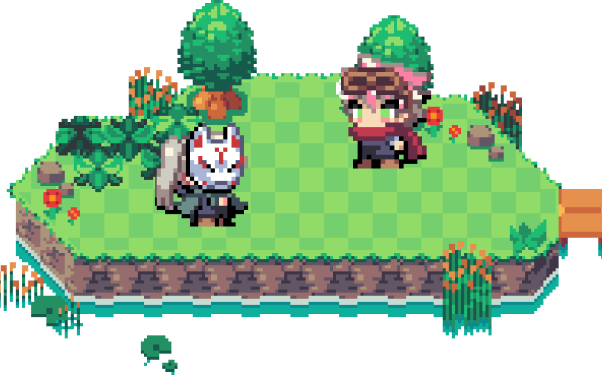
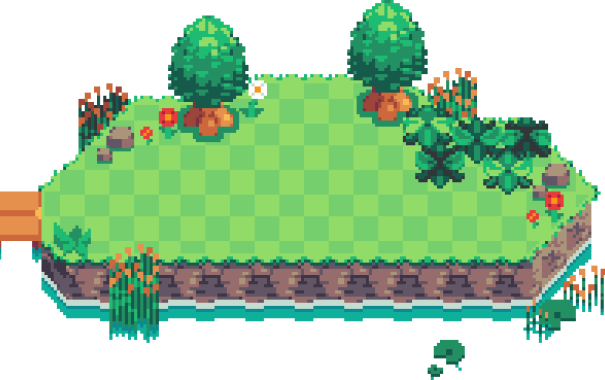
快完成的首頁,新增圖片,刪除無用圖片

diff --git a/src/sass/page/_home.scss b/src/sass/page/_home.scss
@@ -8,7 +8,8 @@
 /* 手機版水中裝飾none */
 .home_lesson_inwater img,
 .home_topic_inwater img,
-.home_mall_inwater img {
+.home_mall_inwater img,
+.home_decorate_island_inwater img {
   display: none;
 }
 
@@ -548,7 +549,9 @@
   top: 40%;
   left: 20%;
 }
-
+.home_mall_island_2 {
+  display: none;
+}
 .home_mall_island_npc1 img {
   width: 50px;
   height: 50px;
@@ -596,6 +599,14 @@
 .home_decorate_island {
   justify-content: flex-start;
 }
+.home_decorate_island_cloud img {
+  width: 30%;
+}
+.home_decorate_island_pic {
+  position: relative;
+  display: flex;
+  justify-content: flex-end;
+}
 .home_decorate_island_2_pic {
   justify-content: flex-end;
 }
@@ -610,7 +621,7 @@
 }
 .home_decorate_info_pic {
   position: absolute;
-  left: 2%;
+  left: 0;
   bottom: 20%;
 }
 .home_decorate_info_pic img {
@@ -618,6 +629,83 @@
   height: 70px;
 }
 
+.home_decorate_island_npc1 img,
+.home_decorate_island_npc2 img,
+.home_decorate_island_2_npc1 img,
+.home_decorate_island_2_npc2 img {
+  position: absolute;
+  width: 50px;
+  height: 50px;
+}
+.home_decorate_island_npc1 img {
+  top: 25%;
+  left: 50%;
+}
+.home_decorate_island_npc2 img {
+  top: 25%;
+  left: 70%;
+}
+
+.home_decorate_island_2 {
+  position: relative;
+  display: none;
+}
+.home_decorate_island_2_cloud {
+  position: absolute;
+}
+.home_decorate_island_2_npc1 img {
+  top: 30%;
+  left: 50%;
+}
+.home_decorate_island_2_npc2 img {
+  top: 30%;
+  left: 70%;
+}
+.last_island {
+  width: 100vw;
+}
+.last_island_pic {
+  width: 100%;
+}
+.last_island_pic img {
+  width: 100%;
+}
+.last_island {
+  position: relative;
+}
+.last_island_npc img {
+  position: absolute;
+  width: 50px;
+  height: 50px;
+  top: 50%;
+  left: 50%;
+  transform: translate(-50%, -50%);
+}
+.last_island_info {
+  position: absolute;
+  display: flex;
+  flex-direction: column;
+  position: absolute;
+  justify-content: center;
+  align-items: center;
+  width: 200px;
+  height: 50px;
+  padding: 20px;
+  background-color: #fae6b8;
+  border: 5px solid #f9bb4d;
+  top: 60%;
+  left: 20%;
+}
+.last_island_info_text {
+  padding: 15px;
+}
+.sign_up {
+  display: block;
+  padding: 10px 20px;
+  background-color: #f9bb4d;
+  border-radius: 30px;
+  color: #fff;
+}
 @include md() {
   .home_first_island_npc1 {
     top: 20%;
@@ -878,7 +966,9 @@
   }
 
   /*商城島*/
-
+  .home_mall_island_2 {
+    display: block;
+  }
   /*商城島雲*/
   .home_mall_cloud_2 img,
   .home_mall_cloud_3 img {
@@ -929,21 +1019,77 @@
     height: 100px;
   }
 
-  .home_decorate_island,
-  .home_decorate_island_2_pic {
-    margin: 150px 100px;
+  .home_decorate_island_pic {
+    justify-content: space-around;
+  }
+
+  .home_decorate_island_cloud img {
+    width: 20%;
+  }
+  .home_decorate_island_inwater img {
+    display: block;
+    width: 250px;
+    height: 250px;
+  }
+
+  .home_decorate_island_2 {
+    display: block;
+    margin: 0 10%;
+  }
+  .home_decorate_island_2_cloud1 {
+    position: absolute;
+    left: 0;
+    bottom: 80%;
+  }
+  .home_decorate_island_2_cloud2 {
+    position: absolute;
+    right: 0;
   }
   .home_decorate_info {
-    width: 50%;
-    text-align: center;
+    width: 60%;
   }
   .home_decorate_info_pic {
     position: absolute;
-    left: 2%;
+    left: 0;
     bottom: 5%;
   }
   .home_decorate_info_pic img {
     width: 100px;
     height: 100px;
+  }
+
+  .home_decorate_island_npc1 img,
+  .home_decorate_island_npc2 img,
+  .home_decorate_island_2_npc1 img,
+  .home_decorate_island_2_npc2 img {
+    width: 70px;
+    height: 70px;
+  }
+  .home_decorate_island_npc1 img {
+    top: 40%;
+    left: 15%;
+  }
+  .home_decorate_island_npc2 img {
+    top: 35%;
+    left: 25%;
+  }
+  .home_decorate_island_2_npc1 img {
+    top: 30%;
+    left: 75%;
+  }
+  .home_decorate_island_2_npc2 img {
+    top: 30%;
+    left: 85%;
+  }
+  .last_island_npc img {
+    width: 150px;
+    height: 150px;
+  }
+  .last_island_info {
+    font-size: 20px;
+    justify-content: center;
+    width: 450px;
+    height: 80px;
+    padding: 20px;
   }
 }

diff --git a/src/home.html b/src/home.html
@@ -11,6 +11,7 @@
             background-color: #A2EBE8;
             box-sizing: border-box;
             overflow-x: hidden;
+            font-family: Noto Sans TC, sans-serif;
         }
     </style>
 </head>
@@ -196,7 +197,7 @@
         <!-- 商城島1 -->
         <div class="home_mall_island_pic">
             <div class="home_mall_island_pic">
-                <img src="./images/home_mall_island_2.png" alt="">
+                <img src="./images/home_mall_island_2.png" alt="" class="home_mall_island_2">
                 <div class="home_mall_island_npc1">
                     <img src="./images/mall_npc.png" alt="">
                 </div>
@@ -228,12 +229,26 @@
 
 
 
-
         <!-- 第五島--裝飾島 -->
         <div class="home_decorate_island">
+            <!--裝飾島的雲 -->
+            <div class="home_decorate_island_cloud">
+                <img src="./images/cloud_2.png" alt="">
+            </div>
             <div class="home_decorate_island_pic">
                 <img src="./images/home_lesson_island2.png" alt="">
+                <div class="home_decorate_island_npc1">
+                    <img src="./images/home_last_npc1.png" alt="">
+                </div>
+                <div class="home_decorate_island_npc2">
+                    <img src="./images/home_last_npc2.png" alt="">
+                </div>
+                <!-- 裝飾島水中裝飾 -->
+                <div class="home_decorate_island_inwater">
+                    <img src="./images/home_island_inwater_5.png" alt="">
+                </div>
             </div>
+
             <div class="home_decorate_info">
                 <div class="home_decorate_info_text">
                     <div class="home_decorate_info_pic">
@@ -243,13 +258,43 @@
                 </div>
             </div>
         </div>
+
     </div>
     <div class="home_decorate_island_2">
+        <div class="home_decorate_island_2_cloud1">
+            <img src="./images/cloud_1.png" alt="">
+        </div>
+        <div class="home_decorate_island_2_cloud2">
+            <img src="./images/cloud_4.png" alt="">
+        </div>
         <div class="home_decorate_island_2_pic">
             <img src="./images/home_lesson_island3.png" alt="">
         </div>
+        <div class="home_decorate_island_2_npc1">
+            <img src="./images/home_lesson_island_npc1.png" alt="">
+        </div>
+        <div class="home_decorate_island_2_npc2">
+            <img src="./images/home_last_npc3.png" alt="">
+        </div>
     </div>
-    <img src="./images/footer_2.png" alt="" width="100%">
+
+
+    <div class="last_island">
+        <div class="last_island_pic">
+            <img src="./images/footer_2.png" alt="">
+        </div>
+        <div class="last_island_npc">
+            <img src="./images/home_info_npc2.png" alt="">
+        </div>
+        <div class="w">
+            <div class="last_island_info">
+                <div class="last_island_info_text">現在就加入會員，和學伴一起學習日文吧！</div>
+                <div class="sign_up">
+                    <p>立即註冊</p>
+                </div>
+            </div>
+        </div>
+    </div>
     @@include('layout/login_register.html')
     <script>
 
